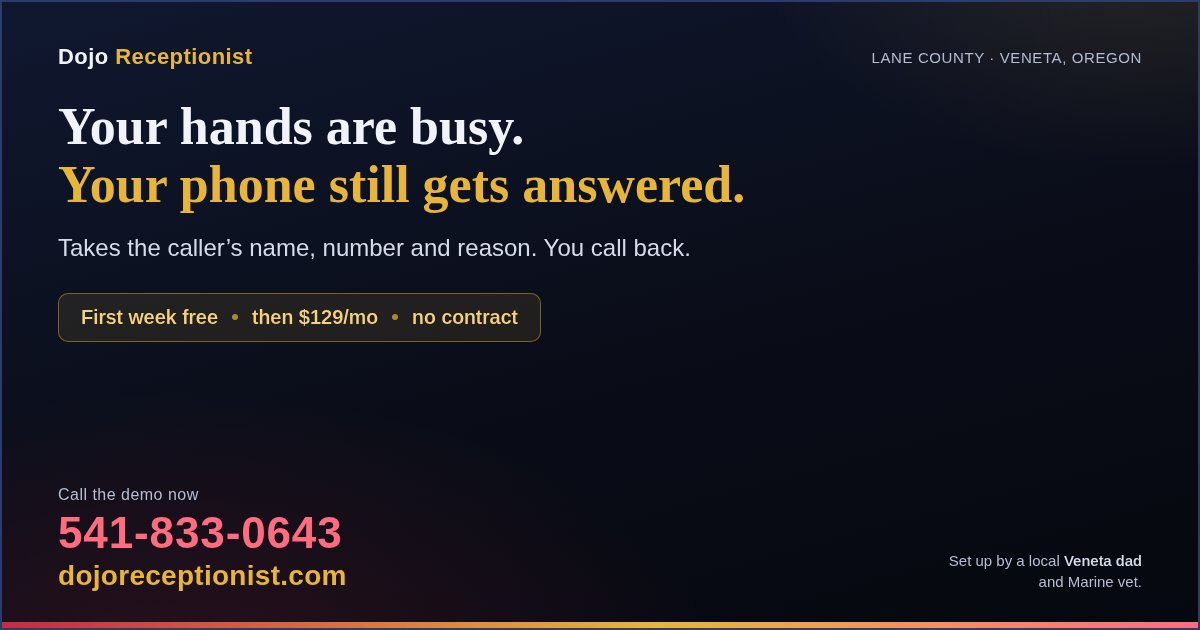
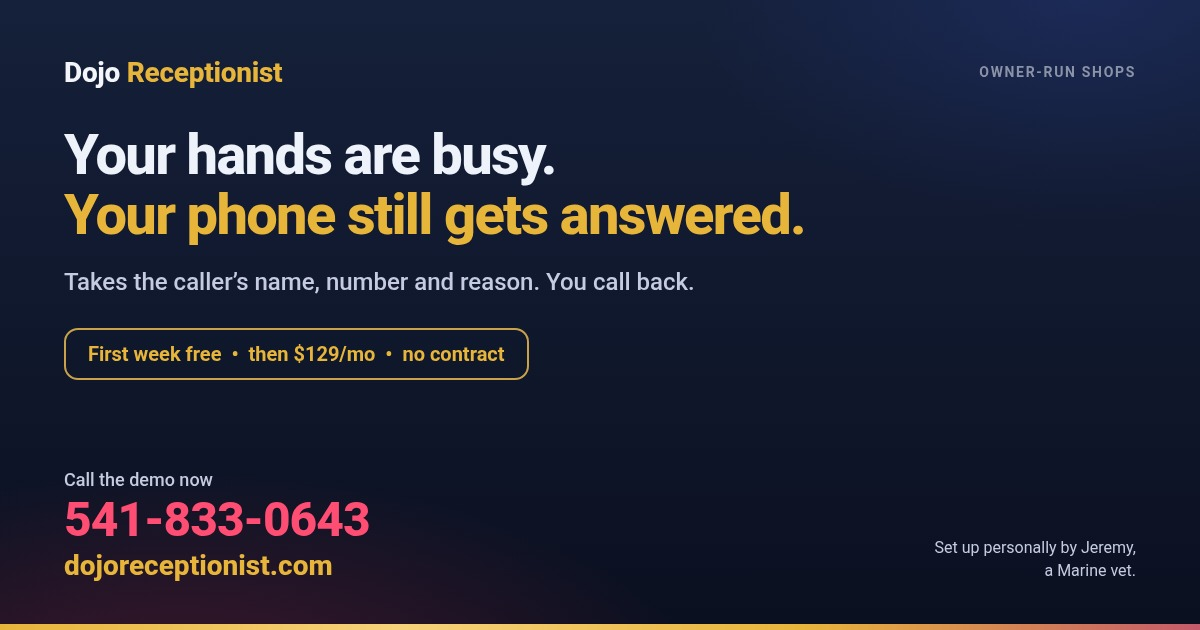
Make the site copy location-neutral for partner expansion.
Drop Lane County, Veneta, Eugene, and other place-specific lines from
the homepage, calculator, and share images so the site can travel with
partners. Setup is described as personal, not in-person. Pricing, the
three nevers, and the 541-833-0643 demo line are unchanged.

diff --git a/index.html b/index.html
@@ -1,22 +1,22 @@
 <!doctype html>
 <!--
-  Dojo Receptionist · dojoreceptionist.com · v3.0 PREVIEW (2026-11-10)
-  Fidelity pass on top of main @ 20c5da5. Single file: inline CSS + inline SVG icon sprite,
+  Dojo Receptionist · dojoreceptionist.com · v3.1 UNIVERSAL (2026-11-10)
+  Location-neutral copy on top of v3 @ ca76fd1. Single file: inline CSS + inline SVG icon sprite,
   one small script (trade picker, same data and demo links as v2.1). No outside fonts, images or tracking.
 -->
 <html lang="en">
 <head>
 <meta charset="utf-8">
 <meta name="viewport" content="width=device-width,initial-scale=1,viewport-fit=cover">
-<title>Dojo Receptionist · Missed calls answered for Lane County shops</title>
-<meta name="description" content="Bella, an honest AI receptionist, answers your shop's missed and after-hours calls and emails you who called and what they need. Set up at your counter by Jeremy, a Veneta dad and Marine vet.">
+<title>Dojo Receptionist · Missed calls answered for owner-run shops</title>
+<meta name="description" content="Bella, an honest AI receptionist, answers your shop's missed and after-hours calls and emails you who called and what they need. Set up for you personally by Jeremy, a Marine vet.">
 <meta name="theme-color" content="#0a0d18">
 <link rel="icon" href="/assets/favicon.ico" sizes="any">
 <link rel="icon" type="image/png" sizes="32x32" href="/assets/favicon-32.png">
 <link rel="icon" type="image/png" sizes="16x16" href="/assets/favicon-16.png">
 <link rel="apple-touch-icon" href="/assets/apple-touch-icon.png">
-<meta property="og:title" content="Dojo Receptionist · Missed calls answered for Lane County shops">
-<meta property="og:description" content="Bella answers the calls you miss, says she's an AI, and emails you who called and what they need. Set up at your counter by Jeremy, a Veneta dad and Marine vet.">
+<meta property="og:title" content="Dojo Receptionist · Missed calls answered for owner-run shops">
+<meta property="og:description" content="Bella answers the calls you miss, says she's an AI, and emails you who called and what they need. Set up for you personally by Jeremy, a Marine vet.">
 <meta property="og:image" content="https://dojoreceptionist.com/assets/og-share.png">
 <meta property="og:url" content="https://dojoreceptionist.com/">
 <meta name="twitter:card" content="summary_large_image">
@@ -326,10 +326,10 @@ footer p+p{margin-top:6px;font-size:var(--t-xs)}
 
   <div class="hero-grid">
    <div>
-    <p class="eyebrow">Owner-run shops · Lane County, OR</p>
-    <!-- SWAP-TEST: broke. Headline + "Bella" + Veneta setup line. -->
+    <p class="eyebrow">Owner-run shops</p>
+    <!-- SWAP-TEST: broke. Headline + "Bella" + Marine vet setup line. -->
     <h1>Under a truck when the phone rings?<em>Bella picks up.</em></h1>
-    <p class="sub">She answers the calls you miss, says she's an AI, and emails you who called and what they need. Jeremy, a Veneta dad and Marine vet, sets her up at your counter.</p>
+    <p class="sub">She answers the calls you miss, says she's an AI, and emails you who called and what they need. Jeremy, a Marine vet, sets her up for you personally.</p>
     <div class="cta">
      <a class="btn g" href="tel:+15418330643"><svg class="i" aria-hidden="true"><use href="#i-phone"/></svg><span>Call Bella: 541-833-0643<small>Demo line. Play your own customer.</small></span></a>
      <a class="btn o" href="#trades"><svg class="i" aria-hidden="true"><use href="#i-play"/></svg>Hear your trade's demo</a>
@@ -358,12 +358,12 @@ footer p+p{margin-top:6px;font-size:var(--t-xs)}
   <h2 id="today-h">Right now you have three bad options.</h2>
  </div>
  <div class="grid three">
-  <div class="card bad"><h3><span class="ic"><svg class="i" aria-hidden="true"><use href="#i-voicemail"/></svg></span>Voicemail</h3><p>The caller with a leaking water heater in Elmira hears a beep, and may dial the next number instead.</p></div>
+  <div class="card bad"><h3><span class="ic"><svg class="i" aria-hidden="true"><use href="#i-voicemail"/></svg></span>Voicemail</h3><p>The caller with a leaking water heater hears a beep, and may dial the next number instead.</p></div>
   <div class="card bad"><h3><span class="ic"><svg class="i" aria-hidden="true"><use href="#i-headset"/></svg></span>An answering service</h3><p>A script read from somewhere else, set up through an online portal you fill out yourself.</p></div>
   <div class="card bad"><h3><span class="ic"><svg class="i" aria-hidden="true"><use href="#i-phone-off"/></svg></span>Let it ring</h3><p>You climb out from under the truck to a missed call, no name, and no idea what they needed.</p></div>
  </div>
- <!-- SWAP-TEST: broke ("Jeremy sets her up at your counter"). -->
- <div class="fourth"><span class="ic"><svg class="i" aria-hidden="true"><use href="#i-spark"/></svg></span><p><b>Or Bella answers in your shop's name.</b>She gets the details and emails you. Jeremy sets her up at your counter, with your hours and your callers' questions.</p></div>
+ <!-- SWAP-TEST: broke ("Jeremy sets her up for you personally"). -->
+ <div class="fourth"><span class="ic"><svg class="i" aria-hidden="true"><use href="#i-spark"/></svg></span><p><b>Or Bella answers in your shop's name.</b>She gets the details and emails you. Jeremy sets her up for you personally, with your hours and your callers' questions.</p></div>
 </section>
 
 <!-- ===== one call ===== -->
@@ -378,7 +378,7 @@ footer p+p{margin-top:6px;font-size:var(--t-xs)}
    <ol class="call">
     <li><span class="ic"><svg class="i" aria-hidden="true"><use href="#i-phone"/></svg></span><div><b>Answers in the shop's name</b><p>Says it's an AI and that the call may be recorded.</p><span class="say"><i>AI</i>"Hi, thanks for calling Coast Range Heating &amp; Air (demo)! I'm the AI assistant, and this call may be recorded."</span></div></li>
     <li><span class="ic"><svg class="i" aria-hidden="true"><use href="#i-user"/></svg></span><div><b>Gets the name and reads the number back</b><p>Digit by digit, then waits for a yes. Then the address and the best time to call back.</p></div></li>
-    <li><span class="ic"><svg class="i" aria-hidden="true"><use href="#i-pin"/></svg></span><div><b>Knows where you work</b><p>The caller said "Angels." It checked against the shop's towns.</p><span class="say"><i>AI</i>"Is the city Angels, or did you mean one of our service areas like Eugene, Springfield, Veneta, Elmira, or Fern Ridge?"</span></div></li>
+    <li><span class="ic"><svg class="i" aria-hidden="true"><use href="#i-pin"/></svg></span><div><b>Knows where you work</b><p>The caller said "Angels." It checked against the shop's towns.</p><span class="say"><i>AI</i>"Is the city Angels, or did you mean one of our service areas?"</span></div></li>
     <li><span class="ic"><svg class="i" aria-hidden="true"><use href="#i-alert"/></svg></span><div><b>Flags what's urgent</b><span class="say caller"><i>Caller</i>"I have an urgent no heat concern."</span><p style="margin-top:8px">The email went out with URGENT first in the subject line.</p></div></li>
     <li><span class="ic"><svg class="i" aria-hidden="true"><use href="#i-mail"/></svg></span><div><b>Emails you, then you call</b><p>You call back with the real answer when your hands are free.</p></div></li>
    </ol>
@@ -389,7 +389,7 @@ footer p+p{margin-top:6px;font-size:var(--t-xs)}
     <p class="eyebrow">What lands in your inbox</p>
     <h2>The summary email.</h2>
    </div>
-   <div class="mail" role="img" aria-label="Sample summary email. Subject: URGENT, no heat, small kids at home. Caller Dana in Veneta, callback number read back, call back any time after noon.">
+   <div class="mail" role="img" aria-label="Sample summary email. Subject: URGENT, no heat, small kids at home. Caller Dana, callback number read back, call back any time after noon.">
     <div class="mail-bar"><svg class="i" aria-hidden="true"><use href="#i-mail"/></svg>Inbox · 8:45 AM</div>
     <div class="mail-head">
      <p class="mail-subj"><span class="tag">URGENT</span>No heat, small kids at home</p>
@@ -400,12 +400,12 @@ footer p+p{margin-top:6px;font-size:var(--t-xs)}
       <dt>Shop</dt><dd>Coast Range Heating &amp; Air</dd>
       <dt>Caller</dt><dd>Dana</dd>
       <dt>Callback</dt><dd>541-···-··42 (read back, confirmed)</dd>
-      <dt>Where</dt><dd>Veneta</dd>
+      <dt>Where</dt><dd>Address confirmed</dd>
       <dt>Reason</dt><dd>No heat</dd>
       <dt>Urgency</dt><dd>URGENT, small kids at home</dd>
       <dt>Call back</dt><dd>Afternoon, any time after noon</dd>
      </dl>
-     <p class="sum">Dana's furnace quit overnight and there are two small kids in the house. She confirmed her number and address in Veneta and asked for a call back any time after noon.</p>
+     <p class="sum">Dana's furnace quit overnight and there are two small kids in the house. She confirmed her number and address and asked for a call back any time after noon.</p>
      <p class="tx">Full call transcript below ↓</p>
     </div>
    </div>
@@ -418,8 +418,8 @@ footer p+p{margin-top:6px;font-size:var(--t-xs)}
 <section id="trades" aria-labelledby="trades-h">
  <div class="sec-head">
   <p class="eyebrow">Hear it</p>
-  <!-- SWAP-TEST: broke (Elmira / Noti / Crow callers). -->
-  <h2 id="trades-h">Calls Lane County shops miss.</h2>
+  <!-- SWAP-TEST: broke (Saturday water heater, first cold night with kids, fir on the house). -->
+  <h2 id="trades-h">Calls owner-run shops miss.</h2>
   <p class="lead">Made-up shops, real voices. Tap "Hear it," allow the mic, and call it like a customer: ask the hours, ask for a price, or leave a message.</p>
  </div>
  <div class="featured" id="featured-trades"></div>
@@ -435,16 +435,16 @@ footer p+p{margin-top:6px;font-size:var(--t-xs)}
   /* Same trades and demo links as v2.1. Add a trade by appending one object. */
   var TRADES=[
    {id:"plumbing",name:"Plumbing",featured:true,icon:"/assets/icons/plumbing.svg",badge:true,demo:"https://elevenlabs.io/app/talk-to?agent_id=agent_4801m6ppvzrnfd7r73zggf3eypbx",
-    sit:"\"Water heater's leaking all over the garage out in Elmira, and it's Saturday morning.\"",
+    sit:"\"Water heater's leaking all over the garage, and it's Saturday morning.\"",
     does:"asks if the water's shut off, how bad it is, the address, and when they can be reached, then emails you."},
    {id:"hvac",name:"HVAC",featured:true,icon:"/assets/icons/hvac.svg",badge:true,demo:"https://elevenlabs.io/app/talk-to?agent_id=agent_7201m6m3k17jepbv88ngghxnpg75",
-    sit:"\"Furnace quit on the first cold Willamette Valley night, and we've got kids in the house.\"",
+    sit:"\"Furnace quit on the first cold night, and we've got kids in the house.\"",
     does:"asks what kind of system, whether there's any heat, the address, and how soon, then emails you, even at 10 p.m."},
    {id:"auto",name:"Auto repair",featured:true,icon:"/assets/icons/auto-repair.svg",badge:true,demo:"https://elevenlabs.io/app/talk-to?agent_id=agent_2901m6ppvtj3ebyrdzn5k5w7y78p",
-    sit:"\"Check-engine light came on driving in from Noti. Can you look at it today?\"",
+    sit:"\"Check-engine light came on on the way in. Can you look at it today?\"",
     does:"gets year, make and model, what it's doing, whether it's drivable, and when they can bring it in, while you're under the lift."},
    {id:"electrical",name:"Electrical",featured:true,icon:"/assets/icons/electrical.svg",badge:true,demo:"https://elevenlabs.io/app/talk-to?agent_id=agent_5901m6m3jzp6f9frwzt67a55cbe3",
-    sit:"\"Half the house went dark in the windstorm out by Crow, and the breaker won't reset.\"",
+    sit:"\"Half the house went dark in the windstorm, and the breaker won't reset.\"",
     does:"asks which rooms are out, whether there's a burning smell, and the address. You decide who goes out."},
    {id:"dispensary",name:"Dispensary",featured:true,icon:"/assets/icons/dispensary.svg",badge:true,demo:"https://elevenlabs.io/app/talk-to?agent_id=agent_6601m732qh8ted69rqzd4qq1kxm5",
     sit:"\"Cedar Hollow Cannabis? You still open tonight, and do I have to be 21?\"",
@@ -453,28 +453,28 @@ footer p+p{margin-top:6px;font-size:var(--t-xs)}
     sit:"\"Fern Hollow Family Diner? Can I call in a to-go order for four, and do you have room for a party Saturday?\"",
     does:"takes the to-go order and reads back the name and number. For a party it gets the date and headcount. You confirm."},
    {id:"salon",name:"Salon",icon:"/assets/icons/salon.svg",demo:"https://elevenlabs.io/app/talk-to?agent_id=agent_8501m6q77zgyewrs08efekykp2kb",
-    sit:"\"Can I get a cut and color before my sister's wedding in Eugene this Saturday?\"",
+    sit:"\"Can I get a cut and color before my sister's wedding this Saturday?\"",
     does:"takes their name, the service, the days that work, and a callback number. You confirm every appointment."},
    {id:"barber",name:"Barber",icon:"/assets/icons/barber.svg",badge:true,demo:"https://elevenlabs.io/app/talk-to?agent_id=agent_8501m6q77zgyewrs08efekykp2kb",
-    sit:"\"Got time for a fade at Copper Pine before my interview in Springfield tomorrow morning?\"",
+    sit:"\"Got time for a fade at Copper Pine before my interview tomorrow morning?\"",
     does:"takes their name, the cut, the days that work, and a callback number while you finish the client in the chair. You confirm every appointment."},
    {id:"pet",name:"Pet grooming",icon:"/assets/icons/pet-grooming.svg",badge:true,demo:"https://elevenlabs.io/app/talk-to?agent_id=agent_1701m6sehstre3pstxxvr7rxj0sw",
-    sit:"\"My dog rolled in something awful out by Fern Ridge. Any chance Muddy Paws has a bath this week?\"",
+    sit:"\"My dog rolled in something awful. Any chance Muddy Paws has a bath this week?\"",
     does:"gets the breed and size, the service, the days that work, and a callback number. You set the appointment."},
    {id:"exterior",name:"Exterior cleaning",icon:"/assets/icons/exterior-cleaning.svg",
-    sit:"\"The roof's gone green out past Elmira, and the gutters are packed. Can you soft wash it before the rain?\"",
+    sit:"\"The roof's gone green, and the gutters are packed. Can you soft wash it before the rain?\"",
     does:"gets the address and whether it's the roof, gutters, house or driveway, then emails you. You call back from the ground."},
    {id:"tree",name:"Tree service",icon:"/assets/icons/tree-service.svg",
-    sit:"\"A fir came down on the house out by Crow. Can somebody come look?\"",
+    sit:"\"A fir came down on the house. Can somebody come look?\"",
     does:"gets the address and whether a tree is on the house, then emails you. You decide who goes out."},
    {id:"septic",name:"Septic service",icon:"/assets/icons/septic.svg",
-    sit:"\"The tank's backing up into the yard out in Noti, and the bathroom won't drain.\"",
+    sit:"\"The tank's backing up into the yard, and the bathroom won't drain.\"",
     does:"gets the address and whether it's a routine pump or a backup, then emails you. You decide who goes out."},
    {id:"well",name:"Well and pump",icon:"/assets/icons/well-pump.svg",
-    sit:"\"No water this morning at the place past Veneta. The pump hums and quits.\"",
+    sit:"\"No water this morning. The pump hums and quits.\"",
     does:"gets the address, what the pump is doing, and a callback number, then emails you. You call back from the truck."},
    {id:"fencing",name:"Fencing",icon:"/assets/icons/fencing.svg",
-    sit:"\"We need fence along the pasture out by Fern Ridge. Can you come look?\"",
+    sit:"\"We need fence along the pasture. Can you come look?\"",
     does:"gets the address, about how much fence, and a callback number, then emails you. You call back when the tools are down."},
    {id:"chimney",name:"Chimney sweep",icon:"/assets/icons/chimney-sweep.svg",
     sit:"\"First cold night's coming, and the chimney hasn't been swept. Can you fit us in before we light the stove?\"",
@@ -568,13 +568,13 @@ footer p+p{margin-top:6px;font-size:var(--t-xs)}
 <section id="how" aria-labelledby="how-h">
  <div class="sec-head">
   <p class="eyebrow">How we start</p>
-  <!-- SWAP-TEST: broke (in person at your counter, Day 7 / Day 30 visits). -->
-  <h2 id="how-h">I set it up at your counter, not in a portal.</h2>
+  <!-- SWAP-TEST: broke (set up with you, not in a portal; Day 7 / Day 30 reports). -->
+  <h2 id="how-h">I set it up with you, not in a portal.</h2>
  </div>
  <ol class="steps">
   <li><b>Tell me about your shop</b><span>A short form or a call: your hours, your services, the questions callers always ask.</span></li>
-  <li><b>I come to your shop</b><span>I set the call forwarding on your phone myself. You keep your number. We don't stop until a test call lands in your inbox.</span></li>
-  <li><b>Day 7 and Day 30</b><span>I come back on Day 7 with a one-page report, and again on Day 30.</span></li>
+  <li><b>I set it up with you</b><span>I set the call forwarding on your phone myself. You keep your number. We don't stop until a test call lands in your inbox.</span></li>
+  <li><b>Day 7 and Day 30</b><span>You get a one-page report on Day 7, and again on Day 30.</span></li>
  </ol>
 </section>
 
@@ -584,7 +584,7 @@ footer p+p{margin-top:6px;font-size:var(--t-xs)}
   <div>
    <div class="sec-head">
     <p class="eyebrow">Pricing</p>
-    <h2 id="price-h">One plan, set up by a neighbor.</h2>
+    <h2 id="price-h">One plan, set up personally.</h2>
     <p class="lead">One price. Everything below is included.</p>
    </div>
    <div class="math" id="math">
@@ -597,12 +597,12 @@ footer p+p{margin-top:6px;font-size:var(--t-xs)}
     <summary>What one missed call can cost (public estimates)</summary>
     <div class="in">
      <ul class="cost">
-      <li><b>HVAC, full system in Oregon:</b> $22,487 average in 2025 among ServiceTitan shops; 75th percentile $32,761. <a href="https://www.servicetitan.com/toolbox/state-of-the-trades/trends/hvac-replacement-cost-by-state" target="_blank" rel="noopener">ServiceTitan, May 2026</a></li>
+      <li><b>HVAC, full system:</b> $22,487 average in 2025 among ServiceTitan shops in its state report; 75th percentile $32,761. <a href="https://www.servicetitan.com/toolbox/state-of-the-trades/trends/hvac-replacement-cost-by-state" target="_blank" rel="noopener">ServiceTitan, May 2026</a></li>
       <li><b>Plumbing:</b> typical repair about $341; water heater install $800–$2,000. <a href="https://www.angi.com/articles/plumber-cost.htm" target="_blank" rel="noopener">Angi, Oct 14, 2026</a></li>
       <li><b>Electrical panel replacement:</b> typically $518–$2,193. <a href="https://www.angi.com/articles/cost-replace-circuit-breaker-box.htm" target="_blank" rel="noopener">Angi, Oct 22, 2026</a></li>
-      <li><b>Septic pump-out in Oregon:</b> usually $300–$600. <a href="https://callapumper.com/guides/septic-pumping-cost/oregon/" target="_blank" rel="noopener">Call a Pumper, opened Nov 10, 2026</a></li>
+      <li><b>Septic pump-out:</b> usually $300–$600. <a href="https://callapumper.com/guides/septic-pumping-cost/oregon/" target="_blank" rel="noopener">Call a Pumper, opened Nov 10, 2026</a></li>
       <li><b>Tow:</b> no statewide rate. We'll use your hook-up and mileage prices.</li>
-      <li><b>Tree removal (one Eugene company's published ranges):</b> about $1,500 to $8,000+ by size. <a href="https://www.urbanarborcare.net/blog/tree-removal-cost-in-oregon-what-to-expect" target="_blank" rel="noopener">Urban Arbor Care, July 10, 2025</a></li>
+      <li><b>Tree removal:</b> about $1,500 to $8,000+ by size, from one company's published ranges. <a href="https://www.urbanarborcare.net/blog/tree-removal-cost-in-oregon-what-to-expect" target="_blank" rel="noopener">Urban Arbor Care, July 10, 2025</a></li>
       <li><b>Garage door:</b> typical repair $265; replacement $1,231. <a href="https://www.angi.com/articles/most-common-garage-door-repair-costs.htm" target="_blank" rel="noopener">Angi</a>, <a href="https://www.angi.com/articles/garage-door-replacement-cost.htm" target="_blank" rel="noopener">Angi</a> (2026)</li>
       <li><b>Appliance (refrigerator):</b> typical repair $275. <a href="https://www.angi.com/articles/how-much-does-refrigerator-repair-cost.htm" target="_blank" rel="noopener">Angi, Oct 15, 2026</a></li>
      </ul>
@@ -634,7 +634,7 @@ footer p+p{margin-top:6px;font-size:var(--t-xs)}
    <p class="eyebrow">The guy who sets it up</p>
    <h2 id="who-h" style="margin-top:8px">Jeremy Alvarado</h2>
    <ul class="facts">
-    <li><svg class="i" aria-hidden="true"><use href="#i-home"/></svg>Local dad in Veneta</li>
+    <li><svg class="i" aria-hidden="true"><use href="#i-home"/></svg>Dad</li>
     <li><svg class="i" aria-hidden="true"><use href="#i-shield"/></svg>U.S. Marine Corps, 2009–2015</li>
     <li><svg class="i" aria-hidden="true"><use href="#i-fist"/></svg>Martial arts, his whole life</li>
    </ul>
@@ -661,7 +661,7 @@ footer p+p{margin-top:6px;font-size:var(--t-xs)}
   <details><summary>Will my customers hate it?</summary><p>It only picks up the calls you miss, so your regulars still reach you the way they do now. Instead of a full voicemail box, they get your shop's name, an honest "I'm an AI," and someone writing down what they need. Call Bella at <a href="tel:+15418330643">541-833-0643</a> and judge for yourself.</p></details>
   <details><summary>What if someone asks for a price?</summary><p>It won't make one up. It takes the caller's name, number and what they need, so you call back with the real answer.</p></details>
   <details><summary>How do I get the message?</summary><p>By email, right after the call: name, number (read back to the caller), where they are, what they need, and when to call back. Urgent calls say URGENT up front. Text alerts are coming soon. Demo calls don't send a summary; yours start once your shop is set up.</p></details>
-  <details><summary>Is recording calls legal in Oregon?</summary><p>For phone calls, Oregon generally allows recording when one party consents (ORS 165.540), and the AI announces the possible recording on every call anyway. This is not legal advice; check with your own advisor if you're unsure.</p></details>
+  <details><summary>Is recording calls legal?</summary><p>It depends on the state. Bella announces that the call may be recorded on every call, so that consent is asked for up front. This is not legal advice; check with your own advisor if you're unsure.</p></details>
   <details><summary>Do I keep my phone number?</summary><p>Yes. I set up the forwarding on your phone with you, and you can turn it off anytime.</p></details>
   <details><summary>Can I pause it for the slow season?</summary><p>Yes, free, for up to 3 months a year. One text or email starts it, your calls forward straight back to your shop, and there's no restart fee.</p></details>
   <details><summary>Can I cancel?</summary><p>Yes, the same day, with no last-month charge. Email <a href="mailto:jeremy@dojoreceptionist.com">jeremy@dojoreceptionist.com</a> and I'll turn it off.</p></details>
@@ -683,7 +683,7 @@ footer p+p{margin-top:6px;font-size:var(--t-xs)}
 </main>
 
 <footer><div class="wrap">
- <p><b style="color:var(--ink2)">Dojo Receptionist</b> · Veneta, Oregon, serving Lane County · <a href="mailto:jeremy@dojoreceptionist.com">jeremy@dojoreceptionist.com</a></p>
+ <p><b style="color:var(--ink2)">Dojo Receptionist</b> · <a href="mailto:jeremy@dojoreceptionist.com">jeremy@dojoreceptionist.com</a></p>
  <p>Example callers and the shops in the demos are made up. Not legal advice.</p>
 </div></footer>
 

diff --git a/calculator/index.html b/calculator/index.html
@@ -3,14 +3,14 @@
 <head>
 <meta charset="utf-8">
 <meta name="viewport" content="width=device-width,initial-scale=1">
-<title>What Missed Calls Cost Your Shop | Dojo Receptionist, Lane County OR</title>
-<meta name="description" content="Type in your own numbers and see what missed calls may cost your Lane County shop. AI receptionist by Jeremy Alvarado, Veneta, Oregon.">
+<title>What Missed Calls Cost Your Shop | Dojo Receptionist</title>
+<meta name="description" content="Type in your own numbers and see what missed calls may cost your shop. AI receptionist set up personally by Jeremy Alvarado, a Marine vet.">
 <link rel="icon" href="/assets/favicon.ico" sizes="any">
 <link rel="icon" type="image/png" sizes="32x32" href="/assets/favicon-32.png">
 <link rel="icon" type="image/png" sizes="16x16" href="/assets/favicon-16.png">
 <link rel="apple-touch-icon" href="/assets/apple-touch-icon.png">
-<meta property="og:title" content="What Missed Calls Cost Your Shop | Dojo Receptionist, Lane County OR">
-<meta property="og:description" content="Type in your own numbers and see what missed calls may cost your Lane County shop. AI receptionist by Jeremy Alvarado, Veneta, Oregon.">
+<meta property="og:title" content="What Missed Calls Cost Your Shop | Dojo Receptionist">
+<meta property="og:description" content="Type in your own numbers and see what missed calls may cost your shop. AI receptionist set up personally by Jeremy Alvarado, a Marine vet.">
 <meta property="og:image" content="https://dojoreceptionist.com/assets/og-share.png">
 <meta property="og:url" content="https://dojoreceptionist.com/calculator/">
 <meta name="twitter:card" content="summary_large_image">
@@ -73,7 +73,7 @@ footer{margin:34px 0 0;padding:20px 0 34px;border-top:1px solid var(--line);font
 <body>
 <header>
 <div class="wrap">
-<span class="tag">Lane County shops · Your numbers</span>
+<span class="tag">Owner-run shops · Your numbers</span>
 <h1>What missed calls <span>cost your shop</span></h1>
 <p class="lede" id="lede">Pick your trade, type in three numbers you know better than anyone, and see your own estimate. No industry averages, no guesses from me.</p>
 <p class="ai"><b>Straight talk:</b> <span id="straight-body">the receptionist is an AI. It tells every caller it's an AI and that the call may be recorded. It never quotes prices, never diagnoses and never takes payment. It takes the message; you make the call.</span></p>
@@ -96,7 +96,7 @@ footer{margin:34px 0 0;padding:20px 0 34px;border-top:1px solid var(--line);font
 <div class="field"><label for="calls-day">Calls per day<i id="hint-day">Incoming calls on a typical day.</i></label><div class="in"><input id="calls-day" type="number" inputmode="decimal" min="0" step="1" value="12"><span class="r">/day</span></div></div>
 <div class="field"><label for="miss">Percent of calls missed<i id="hint-miss">A conservative starting point. 411 Locals/Numa report about 62% of small business calls go unanswered.</i></label><div class="in"><input id="miss" type="number" inputmode="decimal" min="0" max="100" step="5" value="30"><span class="r">%</span></div></div>
 <div class="field"><label for="buy"><span id="label-buy">Missed callers who would've bought</span><i id="hint-buy">Of those missed callers, how many would have bought? The 20% starting point is an estimate.</i></label><div class="in"><input id="buy" type="number" inputmode="decimal" min="0" max="100" step="5" value="20"><span class="r">%</span></div></div>
-<div class="field"><label for="ticket">Average ticket<i id="hint-ticket">Flowhub Oregon median order. Headset's US average basket is about $47.</i></label><div class="in"><span>$</span><input id="ticket" type="number" inputmode="decimal" min="0" step="1" value="46"></div></div>
+<div class="field"><label for="ticket">Average ticket<i id="hint-ticket">Flowhub's published median order. Headset's US average basket is about $47.</i></label><div class="in"><span>$</span><input id="ticket" type="number" inputmode="decimal" min="0" step="1" value="46"></div></div>
 </div>
 
 <div class="result" aria-live="polite">
@@ -135,13 +135,13 @@ footer{margin:34px 0 0;padding:20px 0 34px;border-top:1px solid var(--line);font
 </ul>
 
 <h2>Who sets it up</h2>
-<p class="me">I'm Jeremy Alvarado, a Marine veteran (2009–2015) and dad living in Veneta. I set up each receptionist myself for owner-run shops around Lane County, from your hours and FAQs, usually the same day. You keep your number. I use this myself. If I can't get to the phone, my assistant takes your name and what you need, and I call you back within one business day.</p>
+<p class="me">I'm Jeremy Alvarado, a Marine veteran (2009–2015) and dad. I set up each receptionist myself for owner-run shops, from your hours and FAQs, usually the same day. You keep your number. I use this myself. If I can't get to the phone, my assistant takes your name and what you need, and I call you back within one business day.</p>
 
 <a class="cta" href="mailto:jeremy@dojoreceptionist.com?subject=Start%20my%207-day%20free%20trial">Start my free 7-day trial</a>
 <p class="blank">Email: <a href="mailto:jeremy@dojoreceptionist.com">jeremy@dojoreceptionist.com</a></p>
 </main>
 
-<footer><div class="wrap">Dojo Receptionist · Jeremy Alvarado · Veneta, Oregon, serving Lane County. Every dollar figure on this page comes from numbers you typed; it's your estimate, not a promise. Recording notice is given on every call. This isn't legal advice.</div></footer>
+<footer><div class="wrap">Dojo Receptionist · Jeremy Alvarado. Every dollar figure on this page comes from numbers you typed; it's your estimate, not a promise. Recording notice is given on every call. This isn't legal advice.</div></footer>
 
 <script>
 (function(){
@@ -157,7 +157,7 @@ var PRESETS={
   dayHint:"Incoming calls on a typical day.",
   missHint:"A conservative starting point. 411 Locals/Numa report about 62% of small business calls go unanswered.",
   bookHint:"Of those missed callers, how many would have bought? The 20% starting point is an estimate.",
-  ticketHint:"Flowhub Oregon median order. Headset's US average basket is about $47.",
+  ticketHint:"Flowhub's published median order. Headset's US average basket is about $47.",
   lede:"These four numbers are a starting point you can change. 30% of calls missed is conservative, and 20% who would've bought is an estimate.",
   straight:DISP_STRAIGHT,
   extra:"Answers hours and directions and explains the 21-and-over rule",
